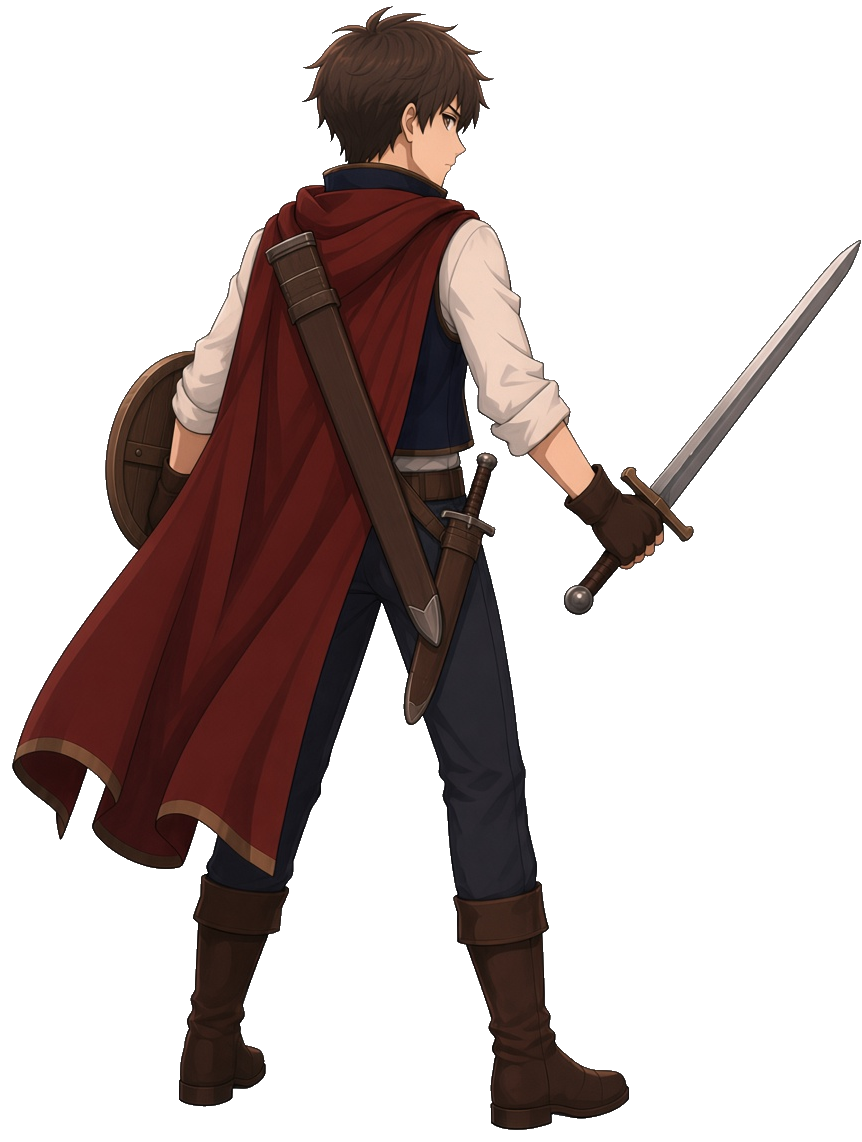
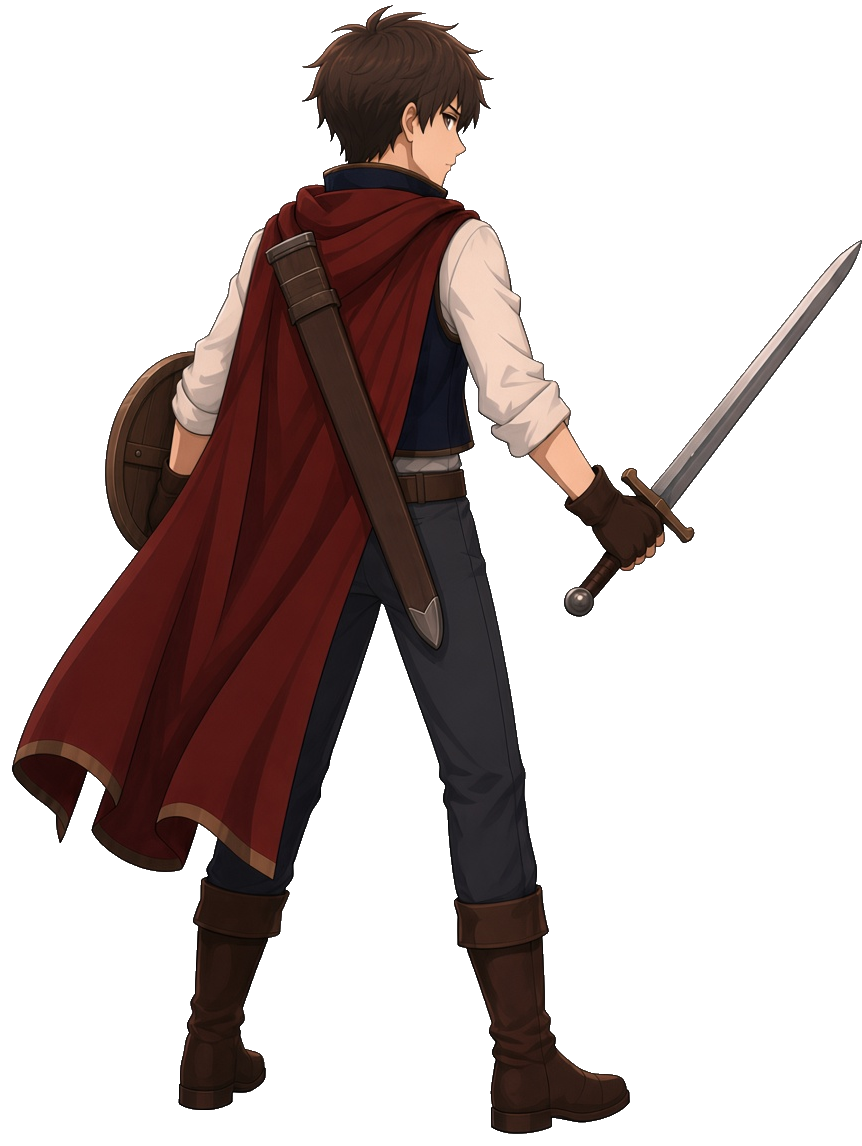
戦闘の絵からショートソードを外す。女の戦士の一枚絵（草原でお茶）を設定資料に足す

diff --git a/index.html b/index.html
@@ -154,7 +154,7 @@
       z-index: 3;
       height: 100%;
       width: auto;
-      aspect-ratio: 862 / 1142;
+      aspect-ratio: 862 / 1146;
       max-width: min(36%, 340px);
       pointer-events: none;
     }
@@ -4049,19 +4049,21 @@
             <h3>戦士</h3>
             <div class="ref-grid pose-grid">
               <figure><img class="cut-ref" src="job-front.png?v=5" alt="戦士の正面"><figcaption>正面</figcaption></figure>
-              <figure><img class="cut-ref" src="hero-shoulder.png?v=22" alt="戦士の戦闘（ポケモンの画角）"><figcaption>戦闘（ポケモンの画角）</figcaption></figure>
+              <figure><img class="cut-ref" src="hero-shoulder.png?v=23" alt="戦士の戦闘（ポケモンの画角）"><figcaption>戦闘（ポケモンの画角）</figcaption></figure>
               <figure><img class="cut-ref" src="warrior-defeat.png?v=3" alt="戦士の敗北"><figcaption>敗北</figcaption></figure>
               <figure><img class="cut-ref" src="warrior-victory.png?v=3" alt="戦士の勝利"><figcaption>勝利</figcaption></figure>
             </div>
-            <p class="sheet-cap">向きごとに別の絵。正面は、ジョブの一枚絵を基準にした。大剣の鞘は左肩から。戦闘では背中を向け、目線は敵。左手の先は盾と体で隠す。敗北は剣が折れて絶望。勝利は盾を持たない。</p>
+            <p class="sheet-cap">向きごとに別の絵。正面は、ジョブの一枚絵を基準にした。大剣の鞘は左肩から。戦闘では背中を向け、目線は敵。左手の先は盾と体で隠す。戦闘ではショートソードを出さない。敗北は剣が折れて絶望。勝利は盾を持たない。</p>
             <h3>女の戦士</h3>
             <div class="ref-grid pose-grid">
               <figure><img class="cut-ref" src="girl-front.png?v=5" alt="女の戦士の正面"><figcaption>正面</figcaption></figure>
-              <figure><img class="cut-ref" src="girl-battle.png?v=5" alt="女の戦士の戦闘（ポケモンの画角）"><figcaption>戦闘（ポケモンの画角）</figcaption></figure>
+              <figure><img class="cut-ref" src="girl-battle.png?v=6" alt="女の戦士の戦闘（ポケモンの画角）"><figcaption>戦闘（ポケモンの画角）</figcaption></figure>
               <figure><img class="cut-ref" src="girl-defeat.png?v=5" alt="女の戦士の敗北"><figcaption>敗北</figcaption></figure>
               <figure><img class="cut-ref" src="girl-victory.png?v=5" alt="女の戦士の勝利"><figcaption>勝利</figcaption></figure>
             </div>
-            <p class="sheet-cap">向きごとに別の絵。スタイルは良く、露出は増やさない。大剣の鞘は左肩から。戦闘では背中を向け、目線は敵。左手の先は盾と体で隠す。敗北は座り込んで泣き、服が破れる。いま戦う戦士は、男のまま。</p>
+            <p class="sheet-cap">向きごとに別の絵。スタイルは良く、露出は増やさない。大剣の鞘は左肩から。戦闘では背中を向け、目線は敵。左手の先は盾と体で隠す。戦闘ではショートソードを出さない。敗北は座り込んで泣き、服が破れる。いま戦う戦士は、男のまま。</p>
+            <img class="sheet-art" src="girl-action.jpg?v=1" alt="女の戦士の一枚絵。草原でお茶をしている">
+            <p class="sheet-cap">女の戦士の一枚絵。草原でお茶をしている。顔と服は正面と同じ。</p>
             <h3>魔法使い・女・白</h3>
             <img class="sheet-art" src="mage-f-sheet.jpg?v=2" alt="女の魔法使い。まだ古い絵。">
             <p class="sheet-cap">まだ古い絵。向きは六つのまま。</p>
@@ -4070,10 +4072,10 @@
             <p class="sheet-cap">まだ古い絵。向きは六つのまま。</p>
             <div class="sheet-locks">
               <p><b>体</b>戦士は、4頭身。頭は全身のおよそ4分の1。描き直しても変えない。魔法使いは、いまの2頭身のまま。</p>
-              <p><b>戦士</b>赤いマント、白いシャツ、紺の胴着、腰のベルトは一本。マントは正面の首元で留める。肩当ては無い。戦闘のときは、左手に丸い盾、右手にロングソード。腰にショートソード。戦っていないときは、ロングソードは背中の鞘で、柄は肩の上に大きく出る。盾は背中で、正面からは見えない。腰にショートソード。リュックは無い。</p>
-              <p><b>女の戦士</b>別の人。4頭身。頭は全身のおよそ4分の1。蜂蜜色の長い髪を高い結びにして、桃色のリボン。大きな琥珀色の目。やわらかい笑み。薔薇色のマント、金の縁、フードは下ろす。白いブラウス、体に沿う桃色の胴着、腰のベルトは一本。短い紺のスカート。脚は素足で、タイツは無い。茶色のブーツ。大きな剣はマントの上から背中。小さな剣は腰。盾とリュックと肩当ては無い。四つは向きごとに別の絵。正面、戦闘（ポケモンの画角）、敗北、勝利。戦闘は背中で、右を向き、剣を構える。いま戦うのは、男の戦士。</p>
+              <p><b>戦士</b>赤いマント、白いシャツ、紺の胴着、腰のベルトは一本。マントは正面の首元で留める。肩当ては無い。戦闘のときは、左手に丸い盾、右手にロングソード。ショートソードは出さない。戦っていないときは、ロングソードは背中の鞘で、柄は肩の上に大きく出る。盾は背中で、正面からは見えない。腰にショートソード。リュックは無い。</p>
+              <p><b>女の戦士</b>別の人。4頭身。頭は全身のおよそ4分の1。蜂蜜色の長い髪を高い結びにして、桃色のリボン。大きな琥珀色の目。やわらかい笑み。薔薇色のマント、金の縁、フードは下ろす。白いブラウス、体に沿う桃色の胴着、腰のベルトは一本。短い紺のスカート。脚は素足で、タイツは無い。茶色のブーツ。大きな剣はマントの上から背中。小さな剣は腰。盾とリュックと肩当ては無い。四つは向きごとに別の絵。正面、戦闘（ポケモンの画角）、敗北、勝利。戦闘は背中で、右を向き、剣を構える。戦闘ではショートソードを出さない。一枚絵は、草原でお茶。いま戦うのは、男の戦士。</p>
               <p><b>魔法使い</b>女は白、男は黒。杖は同じで、先が一つの渦巻き。戦士の服は使わない。</p>
-              <p><b>戦闘</b>自分は、この戦士の背中。ポケモンと同じ構図。右を向き、左手に丸い盾、右手にロングソード。腰にショートソード。表情はきりっとしている。敵はその奥。</p>
+              <p><b>戦闘</b>自分は、この戦士の背中。ポケモンと同じ構図。右を向き、左手に丸い盾、右手にロングソード。ショートソードは出さない。表情はきりっとしている。敵はその奥。</p>
             </div>
             <h3>ジョブ選択</h3>
             <div class="ref-grid">
@@ -4082,7 +4084,7 @@
             </div>
             <h3>戦闘の絵</h3>
             <div class="ref-grid">
-              <figure><img class="cut-ref" src="hero-shoulder.png?v=22" alt=""><figcaption>戦闘の戦士</figcaption></figure>
+              <figure><img class="cut-ref" src="hero-shoulder.png?v=23" alt=""><figcaption>戦闘の戦士</figcaption></figure>
             </div>
             <h3>タイトル</h3>
             <img class="sheet-art" src="title-party.jpg" alt="タイトル。四人がわいわいしている。">
@@ -4346,7 +4348,7 @@
           const img = new Image();
           img.onload = () => { heroImage = img; resolve(img); };
           img.onerror = () => reject(new Error("hero"));
-          img.src = "hero-shoulder.png?v=22";
+          img.src = "hero-shoulder.png?v=23";
         });
       }
       return heroImageTask;
@@ -4371,7 +4373,7 @@
         : guard === "break"
           ? `<div class="hero-guard break" aria-hidden="true">${brokenShield()}</div>`
           : "";
-      return `<div class="hero-shoulder${hurt ? " hurt" : ""}"><img class="hero-fig" src="hero-shoulder.png?v=22" alt="戦士">${hit}${guardHtml}${vitals}</div>`;
+      return `<div class="hero-shoulder${hurt ? " hurt" : ""}"><img class="hero-fig" src="hero-shoulder.png?v=23" alt="戦士">${hit}${guardHtml}${vitals}</div>`;
     }
 
     function startHeroIdle() {
